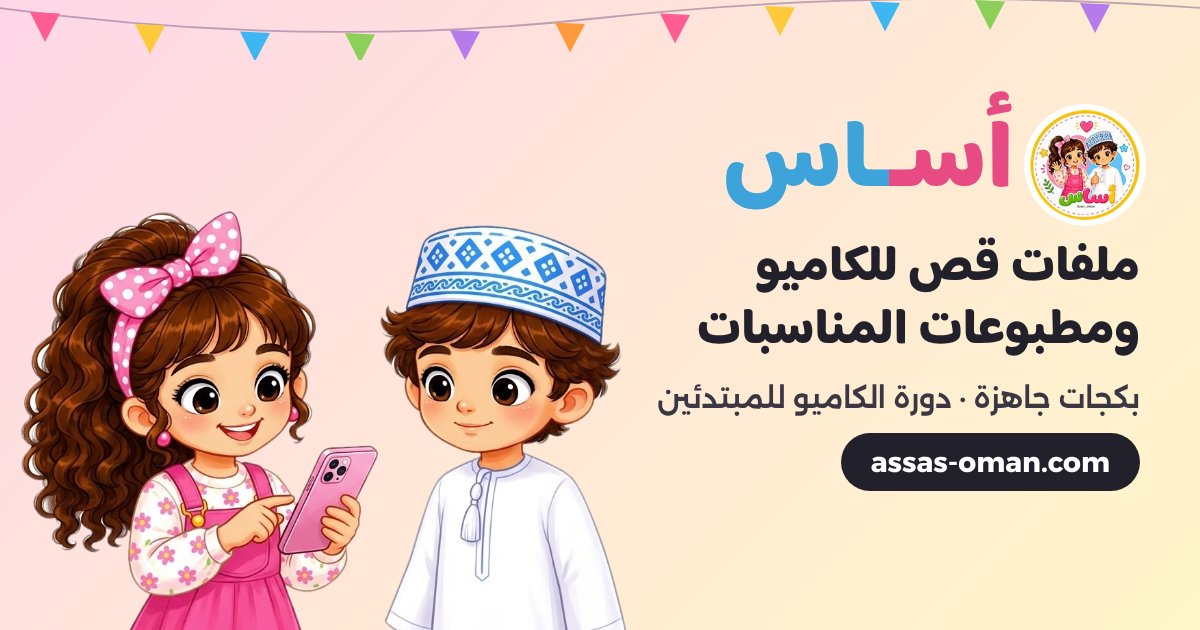
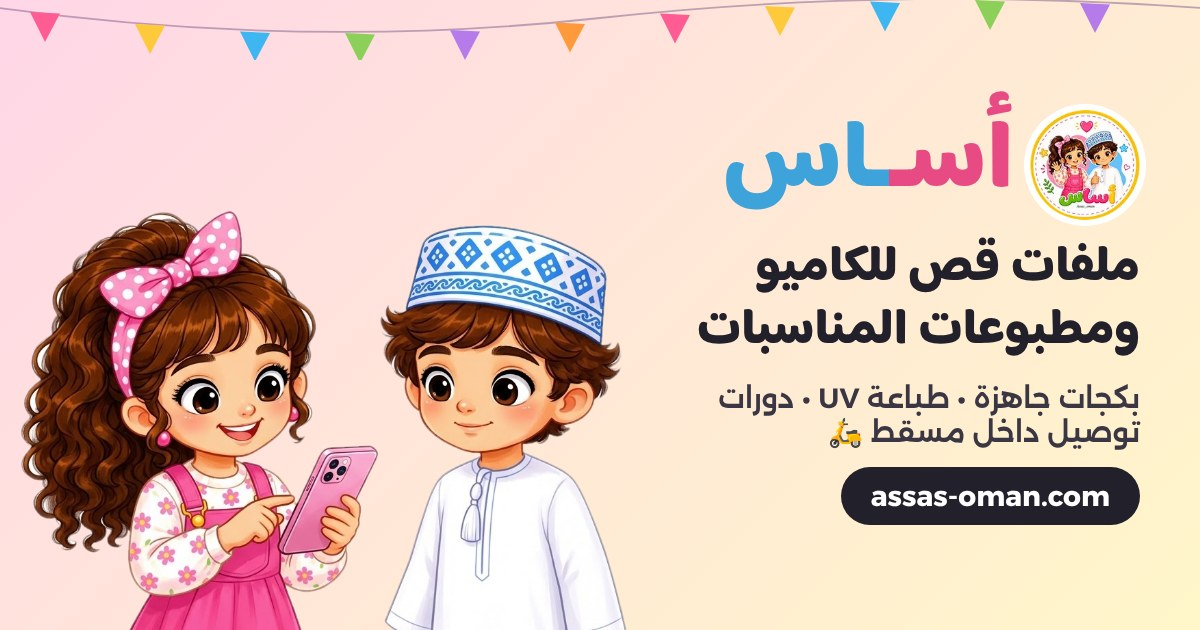
سطر تعريفي، مربع الضمان والتوصيل في صفحة كل منتج، صورة مشاركة جديدة
Claude-Session: https://claude.ai/code/session_01FEZ1hC5trRFTeJF3fq79Ud

Changed region(s): [[0.5242, 0.6032, 0.9558, 0.8444]]

diff --git a/index.html b/index.html
@@ -1,4 +1,4 @@
-<!doctype html><html lang="ar" dir="rtl"><head><meta charset=utf8><title>متجر أساس | ملفات قص للكاميو ودورات ومطبوعات في عُمان</title><meta name=viewport content="width=device-width,initial-scale=1,viewport-fit=cover"><meta name="theme-color" content="#E84A84"><meta name="google-site-verification" content="Zbqtcgh3M640-8NKVIOqe4br6nF2QwwrSW94Gezs8ys"><link rel="icon" type="image/png" href="favicon.png"><link rel="apple-touch-icon" href="apple-touch-icon.png"><link rel="canonical" href="https://assas-oman.com/"><meta name="description" content="متجر أساس عُمان: بكجات وملفات قص للكاميو، ودورة الكاميو للمبتدئين، ومطبوعات المناسبات."><meta property="og:type" content="website"><meta property="og:site_name" content="متجر أساس"><meta property="og:title" content="متجر أساس | ملفات قص للكاميو ومطبوعات المناسبات"><meta property="og:description" content="بكجات وملفات قص للكاميو، ودورة الكاميو للمبتدئين، ومطبوعات المناسبات."><meta property="og:url" content="https://assas-oman.com/"><meta property="og:image" content="https://assas-oman.com/og.jpg"><meta property="og:image:width" content="1200"><meta property="og:image:height" content="630"><meta property="og:locale" content="ar_OM"><meta name="twitter:card" content="summary_large_image"><meta name="twitter:image" content="https://assas-oman.com/og.jpg"><style>:root{color-scheme:light;box-sizing:border-box;padding-top:env(safe-area-inset-top,0px);padding-bottom:env(safe-area-inset-bottom,0px)}html{scroll-padding-top:env(safe-area-inset-top,0px)}body{margin:0;padding:0;font:14px -apple-system,BlinkMacSystemFont,sans-serif;background:#fff;color:#000}img{max-width:100%}[hidden]:not([hidden=until-found i]){display:none!important}
+<!doctype html><html lang="ar" dir="rtl"><head><meta charset=utf8><title>متجر أساس | ملفات قص للكاميو ودورات ومطبوعات في عُمان</title><meta name=viewport content="width=device-width,initial-scale=1,viewport-fit=cover"><meta name="theme-color" content="#E84A84"><meta name="google-site-verification" content="Zbqtcgh3M640-8NKVIOqe4br6nF2QwwrSW94Gezs8ys"><link rel="icon" type="image/png" href="favicon.png"><link rel="apple-touch-icon" href="apple-touch-icon.png"><link rel="canonical" href="https://assas-oman.com/"><meta name="description" content="متجر أساس عُمان: بكجات وملفات قص للكاميو، ودورة الكاميو للمبتدئين، ومطبوعات المناسبات."><meta property="og:type" content="website"><meta property="og:site_name" content="متجر أساس"><meta property="og:title" content="متجر أساس | ملفات قص للكاميو ومطبوعات المناسبات"><meta property="og:description" content="بكجات وملفات قص للكاميو • طباعة UV • دورات • مطبوعات وتوزيعات • توصيل داخل مسقط، كله في أساس 🌷"><meta property="og:url" content="https://assas-oman.com/"><meta property="og:image" content="https://assas-oman.com/og.jpg?v=2"><meta property="og:image:width" content="1200"><meta property="og:image:height" content="630"><meta property="og:locale" content="ar_OM"><meta name="twitter:card" content="summary_large_image"><meta name="twitter:image" content="https://assas-oman.com/og.jpg?v=2"><style>:root{color-scheme:light;box-sizing:border-box;padding-top:env(safe-area-inset-top,0px);padding-bottom:env(safe-area-inset-bottom,0px)}html{scroll-padding-top:env(safe-area-inset-top,0px)}body{margin:0;padding:0;font:14px -apple-system,BlinkMacSystemFont,sans-serif;background:#fff;color:#000}img{max-width:100%}[hidden]:not([hidden=until-found i]){display:none!important}
 /* course ad banner */
 .b3txt{flex:1 1 0;min-width:0;max-width:none!important}.banner.b3{padding-inline-end:calc(38% + 12px)}@media(min-width:760px){.banner.b3{padding-inline-end:52%}}.b3sub,.b3tag{overflow-wrap:anywhere}main>.max{min-width:0;width:100%}.banners{min-width:0;width:100%;contain:inline-size}.b3tag{white-space:normal!important}@media(max-width:520px){.banner.b3{padding-inline-end:calc(38% + 12px)!important}}.banner{min-width:0;max-width:100%}.b3tag{white-space:normal}
 .banner.b5{background:repeating-linear-gradient(135deg,#FFF0F5 0 20px,#FFE1EB 20px 40px);justify-content:flex-start;align-items:center;min-height:270px;padding:20px 22px}
@@ -117,7 +117,7 @@
 .adhd button{margin-inline-start:auto;border:0;background:var(--ink);color:#fff;border-radius:99px;padding:6px 12px;font:inherit;font-size:12.5px;font-weight:700;cursor:pointer;white-space:nowrap}
 </style></head><body>
 
-<meta name="description" content="بكجات وملفات قص للكاميو للمناسبات من أساس عُمان">
+<meta name="description" content="أساس عُمان: بكجات وملفات قص للكاميو للمناسبات، طباعة UV، دورات الكاميو، ومطبوعات وتوزيعات، وتوصيل داخل مسقط.">
 <link rel="preconnect" href="https://fonts.googleapis.com">
 <link rel="preconnect" href="https://fonts.gstatic.com" crossorigin>
 <link rel="stylesheet" href="https://fonts.googleapis.com/css2?family=Alexandria:wght@400;500;600;700;800&family=Baloo+Bhaijaan+2:wght@400;500;600;700;800&display=swap">
@@ -315,6 +315,9 @@ footer .kidrow img{height:130px;width:auto}
 .scrim{position:fixed;inset:0;z-index:40;background:rgba(30,25,40,.42)}
 .drawer{position:fixed;top:0;bottom:0;inset-inline-start:0;z-index:41;width:min(86vw,380px);background:var(--paper);display:flex;flex-direction:column;padding-top:env(safe-area-inset-top,0px);padding-bottom:env(safe-area-inset-bottom,0px);box-shadow:-10px 0 30px -10px rgba(0,0,0,.25)}
 .drawer.menu{inset-inline-start:0}
+.tagbar{display:flex;flex-wrap:wrap;justify-content:center;align-items:center;gap:4px 12px;background:linear-gradient(90deg,var(--pink),#F27BA6);color:#fff;font-size:12.5px;font-weight:700;padding:6px 12px;text-align:center}.tagbar a{color:#fff;text-decoration:none}.tagbar b{background:rgba(255,255,255,.22);border-radius:99px;padding:1px 10px}
+@media(max-width:520px){.tagbar{font-size:11.5px;gap:2px 9px;padding:5px 8px}}
+.trustl{display:flex;flex-direction:column;gap:6px;background:var(--leaf-soft);border-radius:16px;padding:10px 12px;font-size:13.5px;font-weight:600;line-height:1.6}.trustl span{display:flex;gap:6px}
 .trust{display:grid;grid-template-columns:repeat(4,1fr);gap:10px;margin:14px 0 4px}
 .trust div{background:var(--paper);border-radius:18px;padding:10px 8px;display:flex;flex-direction:column;align-items:center;text-align:center;gap:1px;box-shadow:0 6px 18px -14px rgba(0,0,0,.3)}
 .trust span{font-size:22px}.trust b{font-size:13px;line-height:1.3}.trust small{font-size:11px;color:var(--muted);line-height:1.35}
@@ -452,6 +455,7 @@ footer .kidrow img{height:130px;width:auto}
 
 <div class="search gut"><div class="max"><label><svg class="i"><use href="#search"/></svg><input id="q" type="search" placeholder="ابحث عن بكج أو منتج" autocomplete="off"></label></div></div>
 
+<div class="tagbar" role="note"><span>✂ ملفات قص</span><span>✨ طباعة UV</span><span>🎓 دورات</span><a href="delivery.html">🛵 توصيل داخل مسقط</a><b>كله في أساس 🌷</b></div>
 <header class="top gut">
   <div class="in max">
     <div class="start">
@@ -910,6 +914,11 @@ function openSheet(id){
   pickedVar=0;packOn=true;picked={};(it.addons||[]).forEach(a=>picked[a]={on:false,q:1,v:0});
   drawSheet(it);$('#sheet').hidden=false;$('#scrim').hidden=false;document.body.style.overflow='hidden';sheetHist();
 }
+function trustBox(it){const pk=isPackItem(it),crs=!!it.course;
+  const L=crs?['🎓 بعد التأكيد يوصلك رابط الدورة على إيميلك','💳 الدفع تحويل بنكي (بنك مسقط أو تحويل سريع)','💬 أي استفسار نرد عليك على الواتساب']
+   :pk?['📩 ملف الكاميو (.studio3) يوصلك على إيميلك بعد تأكيد التحويل','✂ تفتحينه ببرنامج Silhouette Studio وتقصينه بمكينتك','💳 الدفع تحويل بنكي (بنك مسقط أو تحويل سريع)','🔎 تتابعين حالة طلبك من «طلباتي»']
+   :['🚚 توصيل لكل ولايات عُمان، والرسوم تندفع عند الاستلام','🛵 داخل مسقط: توصيل أساس بسعر ثابت ٢ ر.ع','💳 الدفع تحويل بنكي (بنك مسقط أو تحويل سريع)','🔎 تتابعين حالة طلبك من «طلباتي»'];
+  return `<div class="trustl">${L.map(x=>`<span>${x}</span>`).join('')}</div>`}
 function drawSheet(it){
   const ads=(it.addons||[]).map(findItem).filter(Boolean);
   $('#sheet').innerHTML=`<div class="in">
@@ -917,6 +926,7 @@ function drawSheet(it){
     <div class="hero">${thumb(it)}</div>
     <div style="display:flex;justify-content:space-between;align-items:baseline;gap:10px;flex-wrap:wrap"><h2 id="s-title">${esc(it.name)}</h2>${it.price!=null?`<span class="pr num">${money(it.price)} ${CURRENCY}</span>`:'<span class="hint">السعر حسب الكمية</span>'}</div>
     ${it.desc?`<p style="font-size:14.5px;line-height:1.8">${esc(it.desc)}</p>`:it.sub?`<p class="hint">${esc(it.sub)}</p>`:''}
+    ${trustBox(it)}
     ${it.gallery&&it.gallery.length?`<div><b>${esc(it.galTitle||'صور البكج')}</b> <span class="hint" style="font-size:12.5px">· اضغطي على الصورة أو الفيديو لتكبيره وحفظه</span><div class="gal">${it.gallery.map((u,i)=>`<button type="button" data-gal="${i}" aria-label="${isVid(u)?'فيديو':'صورة'} ${i+1}">${isVid(u)?`<img src="${esc(vPoster(u))}" alt="" loading="lazy"><i class="play">▶</i>`:`<img src="${esc(u)}" alt="" loading="lazy">`}</button>`).join('')}</div></div>`:''}
     ${it.galFolder?`<div class="galdl">${it.gallery&&it.gallery.length?'':`<b>${esc(it.galTitle||'صور البكج')}</b>`}<a class="pill" href="${esc(it.galFolder)}" target="_blank" rel="noopener">⬇ تحميل صور البكج</a><span class="hint" style="font-size:12.5px">${it.gallery&&it.gallery.length?'لتحميل الصور والفيديوهات الأصلية من Google Drive':'تنفتح الصور في Google Drive، واضغطي «تنزيل» لحفظها'}</span></div>`:''}
     ${it.includes&&it.includes.length?`<div><b>يشمل الملف</b><ul class="inc">${it.includes.map(x=>`<li>${esc(x)}</li>`).join('')}</ul></div>`:''}
